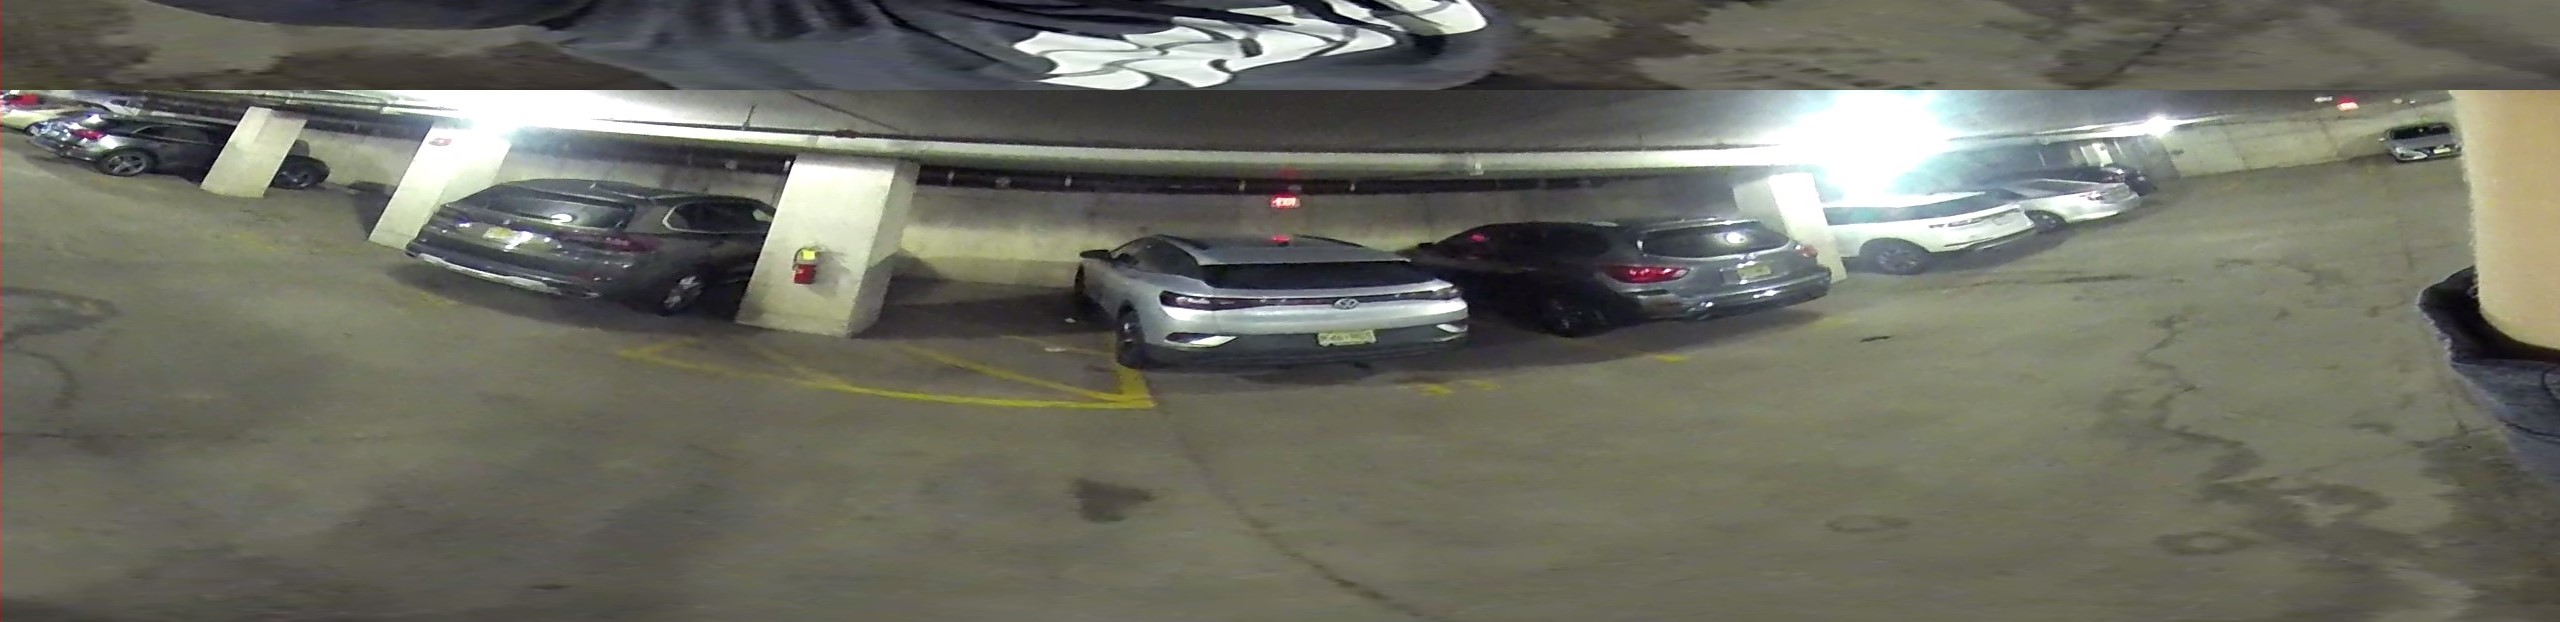
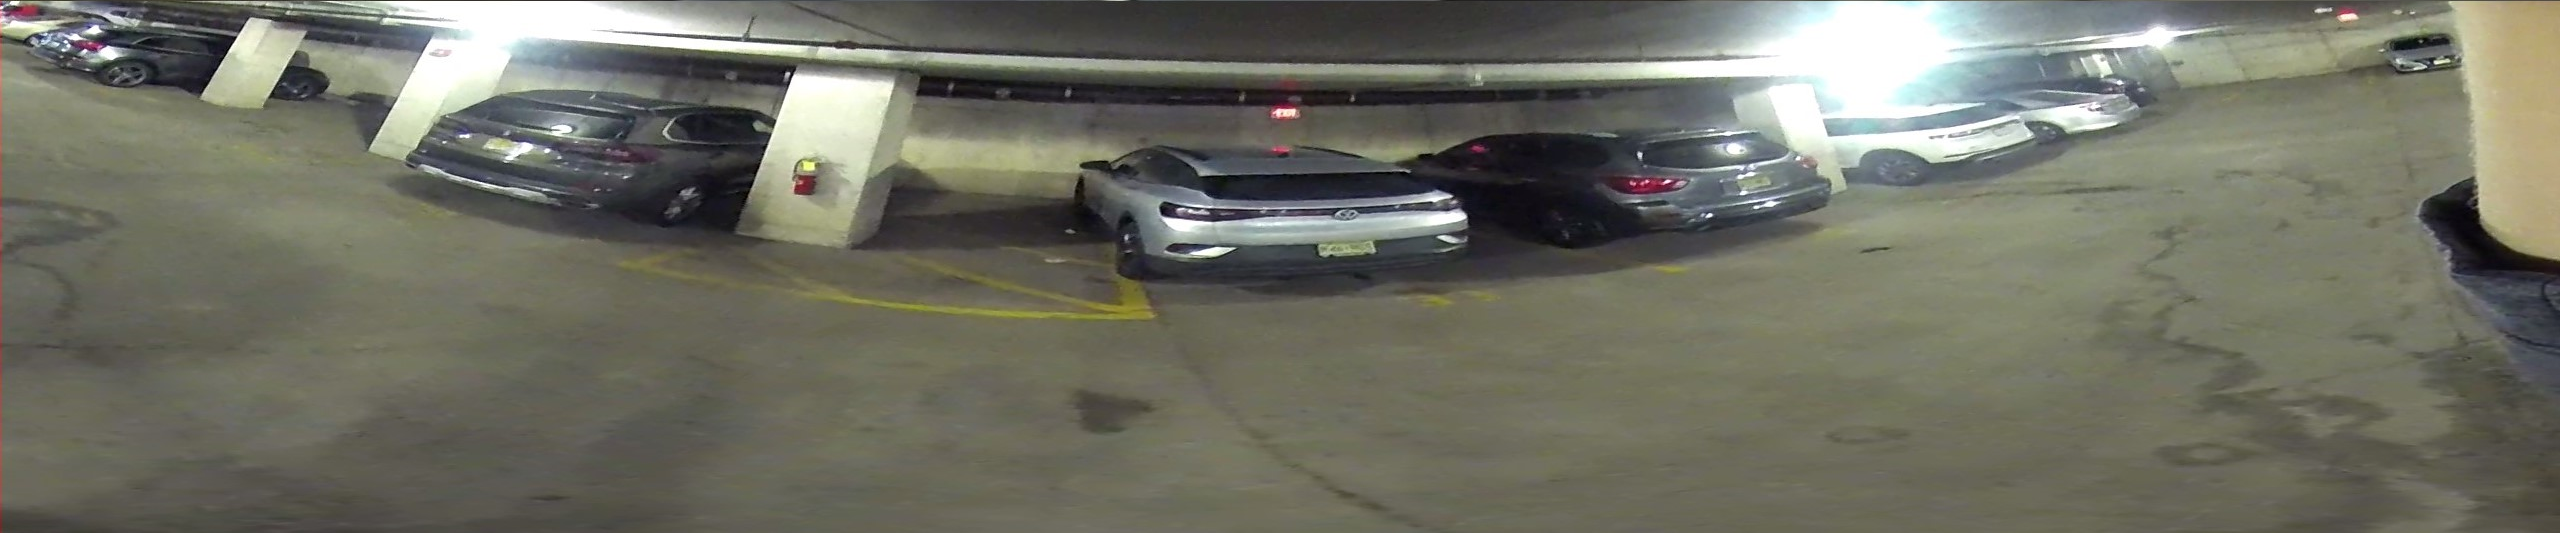
added new images from camera to test

diff --git a/Car Detection/RoostCarDect/RoostCarDect/main.py b/Car Detection/RoostCarDect/RoostCarDect/main.py
@@ -11,7 +11,7 @@ model = torch.hub.load('ultralytics/yolov5', 'yolov5s', pretrained=True)
 # Load your image
 #img_path = './CamTest1.png'
 img = cv2.imread(img_path) 
-img_resized = cv2.resize(img, (2550, 540))
+img_resized = cv2.resize(img, (2560, 540))
 
 # Convert the image to RGB (YOLOv5 expects images in RGB format)
 img_rgb = cv2.cvtColor(img_resized, cv2.COLOR_BGR2RGB)
